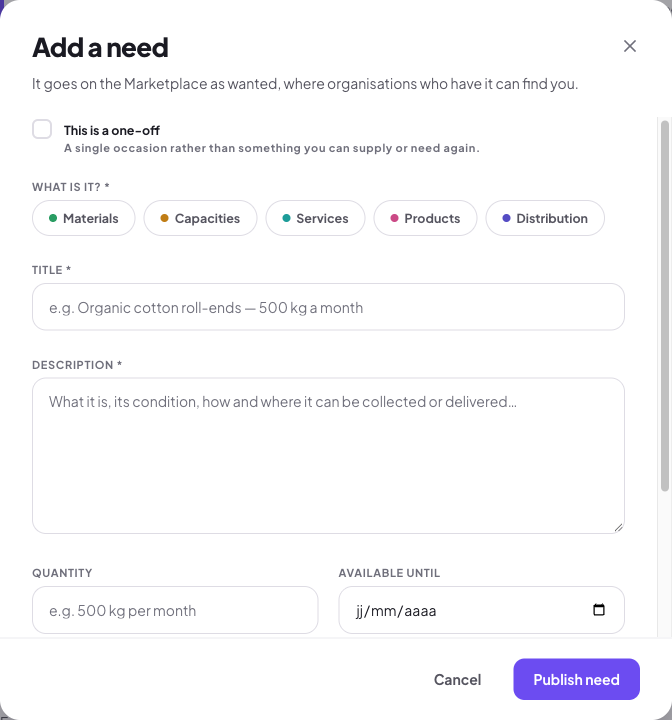
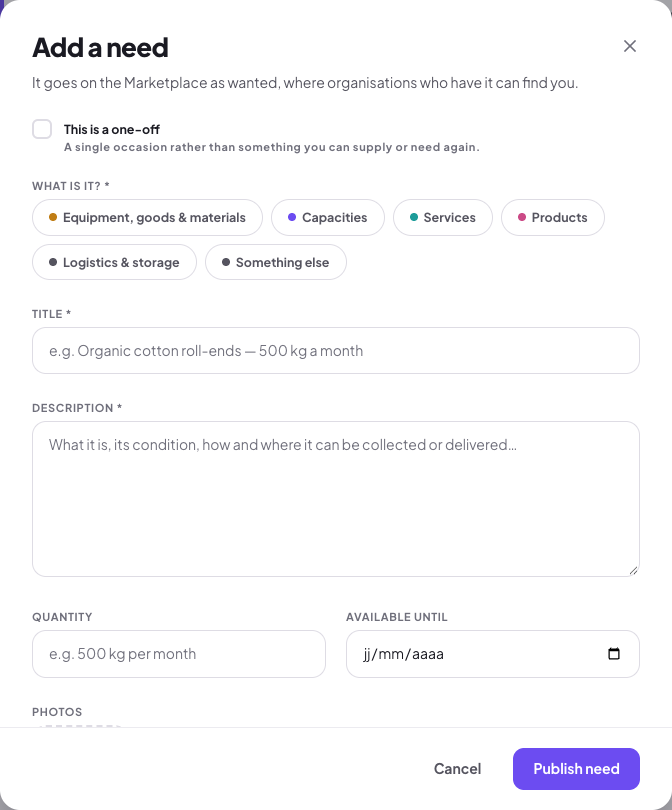
docs(manual): screenshots and wording after the taxonomy change
Retaken on the dev data (Northwave Textiles, Rotterdam): sign-up and
partner details with the value chain stages and supporting roles, the
profile editor (five essentials, What you do), the directory and its
In the value chain filter (replacing the What they are menu), the
marketplace filters, map and listing form with the new activities, the
facilitator's table and record, and every badge that showed a kind.

Refs FBX-113

diff --git a/src/features/manual/pages/CompleteYourProfile.tsx b/src/features/manual/pages/CompleteYourProfile.tsx
@@ -10,8 +10,7 @@ const ESSENTIALS = [
   ["Name", "Section A. The name partners search for."],
   ["Address", "Section A, picked from the suggestions — the point on the map."],
   ["A way to contact you", "Section A: a website, a general email or a phone number. One is enough."],
-  ["Your part in the making process", "Section B: where you come in the making process, how you support others — or that you only support."],
-  ["One sector", "Section B. Picked from the list — most organisations pick Textile & clothing."],
+  ["Your part in the making process", "Section B: where you sit in the value chain, how you support it — or that you only support."],
   ["How many people work here", "Section C. The number stays private; only the EU size band it falls in is used."],
 ];
 
@@ -27,8 +26,8 @@ export function CompleteYourProfile() {
   return (
     <div className="max-w-3xl">
       <p className="text-fx-lead text-fx-ink2">
-        Your profile is edited in one place, section by section, and a ring at the top counts six
-        essentials. Reach six and you appear properly in the Directory, count in the local picture, and
+        Your profile is edited in one place, section by section, and a ring at the top counts five
+        essentials. Reach five and you appear properly in the Directory, count in the local picture, and
         can post to the Marketplace. Everything else is portrait: it sharpens who finds you, and never counts
         against you.
       </p>
@@ -40,7 +39,7 @@ export function CompleteYourProfile() {
             <strong>Edit profile</strong>, <strong>Team</strong>, <strong>Public view</strong>. The first
             opens on the ring and the list of what is done and what is missing.
           </p>
-          <Figure src={`${SHOT}01-editor.png`} alt="The profile editor: three tabs, the completion ring at 4 of 6, and the six essentials marked done or missing" caption="Finish your profile opens the first section that still has something missing." />
+          <Figure src={`${SHOT}01-editor.png`} alt="The profile editor: three tabs, the completion ring, and the five essentials marked done or missing" caption="Finish your profile opens the first section that still has something missing." />
         </Step>
 
         <Step n={2} title="Do the required sections first">
@@ -61,7 +60,7 @@ export function CompleteYourProfile() {
             cooperative…), the year it started, and your registration and VAT numbers — or that you have
             neither, which is an answer too. Press <strong>Save identity</strong> at the bottom.
           </p>
-          <Figure src={`${SHOT}03-identity.png`} alt="The Identity section open: name, description, address, contacts, kind, legal form and VAT number" />
+          <Figure src={`${SHOT}03-identity.png`} alt="The Identity section open: name, description, address, contacts, legal form and VAT number" />
         </Step>
 
         <Step n={4} title="B · What you do">
@@ -93,7 +92,7 @@ export function CompleteYourProfile() {
         </Step>
       </ol>
 
-      <Eyebrow className="mt-12 mb-3">The six essentials</Eyebrow>
+      <Eyebrow className="mt-12 mb-3">The five essentials</Eyebrow>
       <FactList rows={ESSENTIALS} />
 
       <Eyebrow className="mt-12 mb-3">What the badges mean</Eyebrow>

diff --git a/src/features/manual/pages/BringYourPartners.tsx b/src/features/manual/pages/BringYourPartners.tsx
@@ -85,12 +85,12 @@ export function BringYourPartners() {
 
         <Step n={5} title="Their details, and the person to invite">
           <p>
-            Their name, their type, and their <strong>address</strong> picked from the suggestions — that is
-            what puts them on the map. <strong>What you do</strong> is optional; pick what you know. Then{" "}
+            Their name, their <strong>address</strong> picked from the suggestions — that is what puts them
+            on the map — and where they sit in the value chain, or how they support it. Then{" "}
             <strong>Their email</strong>: the person who should run the profile. It is optional, but it is
             the whole point — that email is the invitation. Press <strong>Add partner</strong>.
           </p>
-          <Figure src={`${SHOT}06-details.png`} alt="The details form of a partner: name, type, address on the map, what they do, and their email" />
+          <Figure src={`${SHOT}06-details.png`} alt="The details form of a partner: name, address on the map, its place in the value chain, and their email" />
           <Figure src={`${SHOT}07-partner-added.png`} alt="Partner added: the confirmation, with Add another partner" caption="Add another partner keeps you in the flow — do the whole list while you are here." />
         </Step>
 

diff --git a/src/features/manual/pages/RunYourNetwork.tsx b/src/features/manual/pages/RunYourNetwork.tsx
@@ -8,7 +8,7 @@ const SHOT = "/manual/run-your-network/";
 
 const TABS = [
   ["Overview", "The network's description, three numbers — organisations followed, open tasks, overdue — the next tasks up, and the territory: its centre, its radius, who runs it."],
-  ["Organisations", "The organisations you follow: a table, cards, a map of their addresses over your territory, or a graph of the connections between them. Filters by type, speciality, economic health, country and workforce."],
+  ["Organisations", "The organisations you follow: a table, cards, a map of their addresses over your territory, or a graph of the connections between them. Filters by stage of the value chain, supporting role, economic health, country and workforce."],
   ["Tasks", "Your team's to-do list for the network, with due dates. Overdue ones are in red; tick them done. Tasks about one organisation also show on its record."],
   ["Team", "Who has facilitator access, the people at the organisation the network is linked to who could be granted it, pending invitations, and the way to invite a co-facilitator by email."],
   ["Settings", "Name, description, the linked organisation, the territory's centre and radius. The address of the network cannot be changed once created."],

diff --git a/src/features/manual/pages/CreateAnAccount.tsx b/src/features/manual/pages/CreateAnAccount.tsx
@@ -42,11 +42,11 @@ export function CreateAnAccount() {
 
         <Step n={3} title="If you create it: its details">
           <p>
-            The wizard grows to three steps. <strong>Organisation name</strong>, its <strong>Type</strong>,
-            and its <strong>Address</strong> picked from the suggestions — the address is required, because
-            it is what puts you on the map. <strong>What you do</strong> can wait; it is editable later.
+            The wizard grows to three steps. <strong>Organisation name</strong>, its <strong>Address</strong>{" "}
+            picked from the suggestions — it is what puts you on the map — and where you sit in the value
+            chain: the stages you work in, or how you support the chain. At least one; you can change it later.
           </p>
-          <Figure src={`${SHOT}04-details.png`} alt="Step 2 of 3, Its details: organisation name, type and address" />
+          <Figure src={`${SHOT}04-details.png`} alt="Step 2 of 3, Its details: organisation name, address, the stages of the value chain and the supporting roles" />
         </Step>
 
         <Step n={4} title="Your account">

diff --git a/src/features/manual/pages/FindOrganisations.tsx b/src/features/manual/pages/FindOrganisations.tsx
@@ -47,7 +47,7 @@ export function FindOrganisations() {
 
         <Step n={2} title="Narrow it">
           <FactList rows={FILTERS} />
-          <Figure src={`${SHOT}02-kinds.png`} alt="The What they are menu open, listing the organisation types with checkboxes" caption="Types combine: tick Collector / sorter and Recycler to see the end of the chain." />
+          <Figure src={`${SHOT}02-stages.png`} alt="The In the value chain filter with 06 Use & upkeep and 07 Collection & recovery picked" caption="Stages combine: pick Use & upkeep and Collection & recovery to see the end of the chain." />
         </Step>
 
         <Step n={3} title="Read the cards, or the map">

diff --git a/src/features/manual/pages/ClaimYourOrganisation.tsx b/src/features/manual/pages/ClaimYourOrganisation.tsx
@@ -41,7 +41,7 @@ export function ClaimYourOrganisation() {
             </Link>
             ). Signed in, use <strong>Add an organisation</strong> from the organisation switcher, or open the
             profile from the <strong>Directory</strong>: an unclaimed one carries an <strong>Unclaimed</strong>{" "}
-            badge next to its type.
+            badge next to its place in the value chain.
           </p>
           <Figure src={`${SHOT}01-unclaimed-profile.png`} alt="An unclaimed organisation's profile: the Unclaimed badge and the Claim this profile button" caption="On the profile, the claim is the main button." />
         </Step>

diff --git a/src/features/manual/pages/SearchTheMarketplace.tsx b/src/features/manual/pages/SearchTheMarketplace.tsx
@@ -53,7 +53,7 @@ export function SearchTheMarketplace() {
             &amp; materials, Offcuts, roll-ends &amp; deadstock, within 50 km, Netherlands. Picking an activity
             reveals its categories.
           </p>
-          <Figure src={`${SHOT}02-filters.png`} alt="The filter column with Materials selected: the four categories of Materials appear, then the location choices" />
+          <Figure src={`${SHOT}02-filters.png`} alt="The filter column with Equipment, goods & materials selected: its categories appear, then the location choices" />
           <FactList rows={FILTERS} />
         </Step>
 

diff --git a/src/features/manual/sections/howTo.ts b/src/features/manual/sections/howTo.ts
@@ -39,7 +39,7 @@ export const howTo: ManualSection = {
       area: "Your organisation",
       page: "complete-your-profile",
       label: "Complete your profile",
-      summary: "Reach the six essentials that put you on the map, then add contacts, size and photos.",
+      summary: "Reach the five essentials that put you on the map, then add contacts, size and photos.",
     },
     {
       area: "Your organisation",
